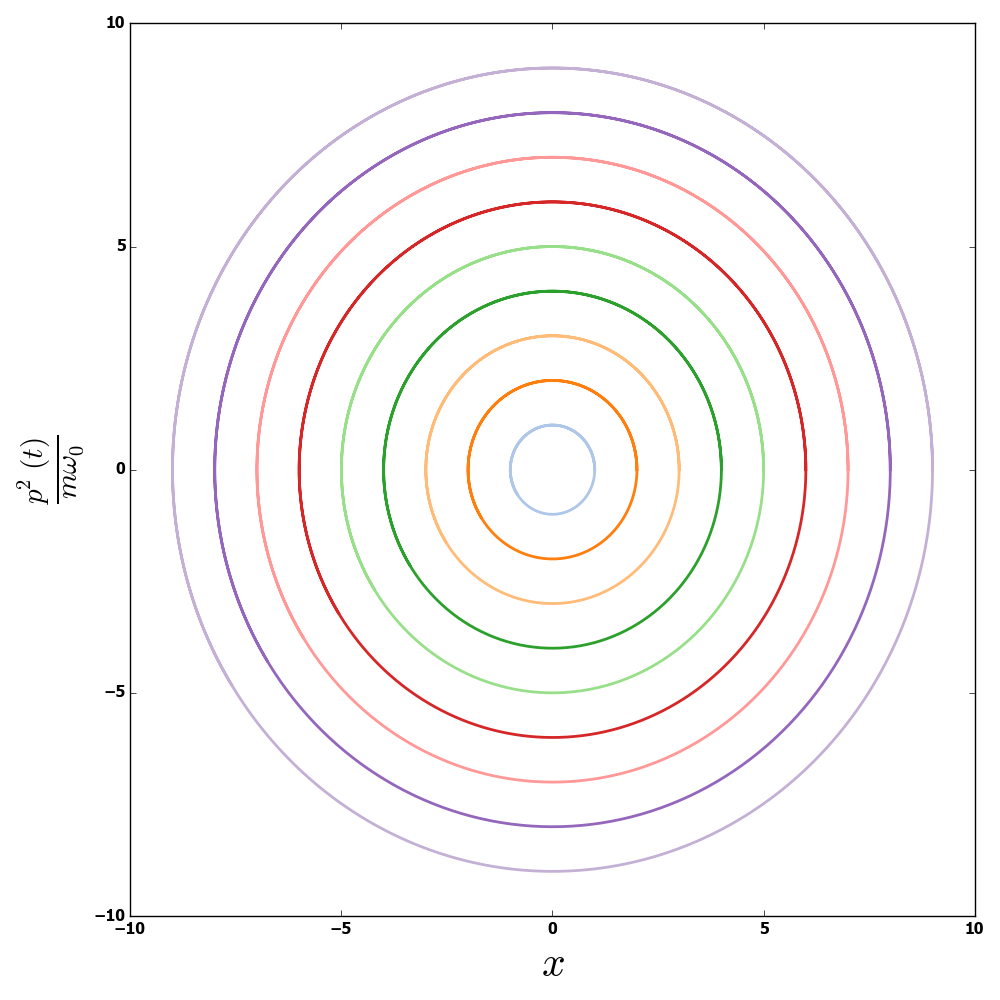
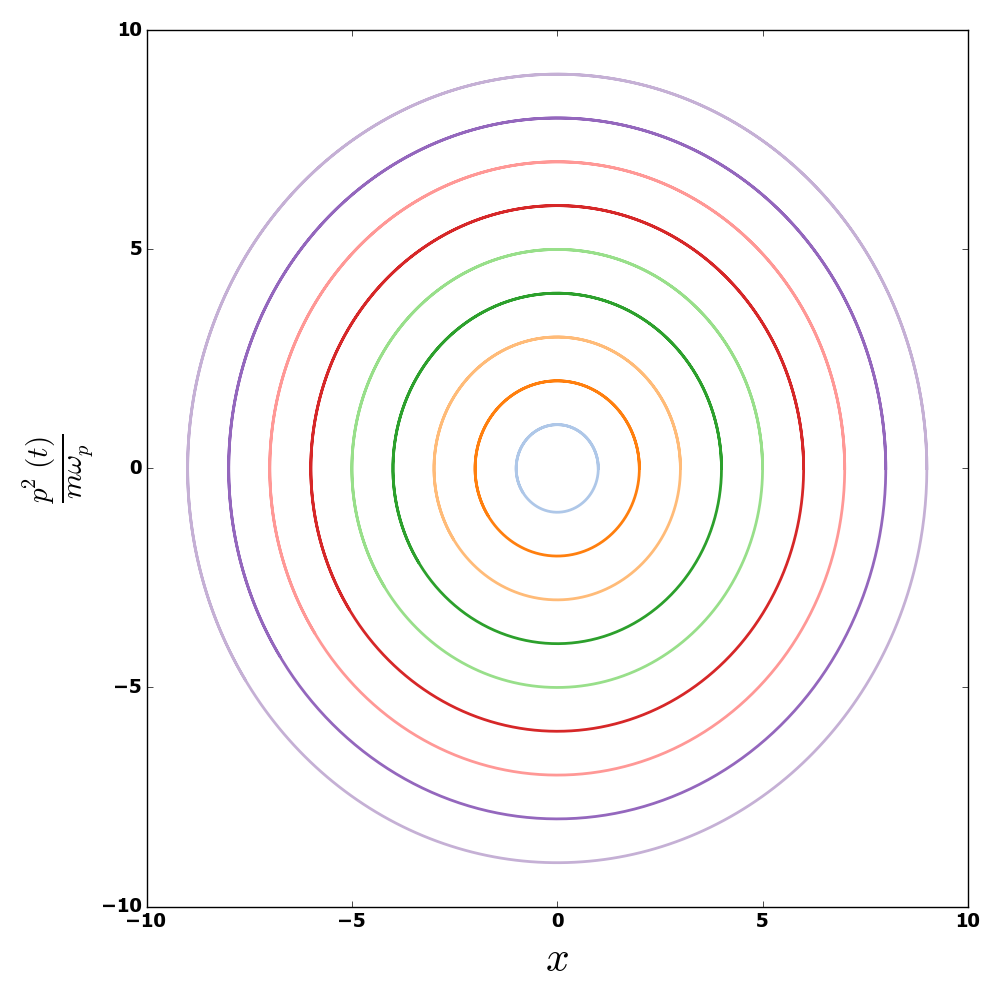
changed w0 to wp

diff --git a/LaserPlasmaAcc/SimpleFigures.py b/LaserPlasmaAcc/SimpleFigures.py
@@ -58,33 +58,33 @@ my_path = "C:\Users\\vernier\PycharmProjects\octo-elective\\"
 #       OSCILLATOR IN PHASE SPACE            #
 ##############################################
 
-# tmin = 0
-# tmax = 10.
-# tnum = 1000
-# tstep = (tmax - tmin)/tnum
-#
-# t_array = np.arange(tmin, tmax, tstep)
-#
-#
-# fig = plt.figure(1, figsize=(10,10), dpi=80, facecolor='w', edgecolor='k')
-#
-# # Plot theta as a function of time
-# ax1 = fig.add_subplot(111)
-# for a0 in np.arange(1, 10, 1):
-#     x = [a0*m.cos(t) for t in t_array]
-#     y = [a0*m.sin(t) for t in t_array]
-#     ax1.plot(x, y, linewidth=2, color=tableau20[a0])
-#
-# ax1.set_xlabel('$x$', fontsize=30)
-# ax1.set_ylabel('$\\frac{p^2(t)}{m\omega_0}$', fontsize=30)
-# plt.tight_layout()
-# plt.savefig(my_path + 'simple_phase_space.png')
+tmin = 0
+tmax = 10.
+tnum = 1000
+tstep = (tmax - tmin)/tnum
+
+t_array = np.arange(tmin, tmax, tstep)
+
+
+fig = plt.figure(1, figsize=(10,10), dpi=80, facecolor='w', edgecolor='k')
+
+# Plot theta as a function of time
+ax1 = fig.add_subplot(111)
+for a0 in np.arange(1, 10, 1):
+    x = [a0*m.cos(t) for t in t_array]
+    y = [a0*m.sin(t) for t in t_array]
+    ax1.plot(x, y, linewidth=2, color=tableau20[a0])
+
+ax1.set_xlabel('$x$', fontsize=30)
+ax1.set_ylabel('$\\frac{p^2(t)}{m\omega_p}$', fontsize=30)
+plt.tight_layout()
+plt.savefig(my_path + 'simple_phase_space.png')
 
 ##############################################
 #    DAMPED OSCILLATOR IN PHASE SPACE, BLANK #
 # ##############################################
-#
-#
+
+
 # tmin = 0
 # tmax = 10.
 # tnum = 1000
@@ -106,7 +106,7 @@ my_path = "C:\Users\\vernier\PycharmProjects\octo-elective\\"
 # ax1.set_xlim(-1, 1)
 # ax1.set_ylim(-1, 1)
 # ax1.set_xlabel('$x$', fontsize=30)
-# ax1.set_ylabel('$\\frac{p^2(t)}{m\omega_0}$', fontsize=30)
+# ax1.set_ylabel('$\\frac{p^2(t)}{m\omega_p}$', fontsize=30)
 # plt.tight_layout()
 # plt.savefig(my_path + 'empty_phase_space.png')
 
@@ -180,50 +180,50 @@ my_path = "C:\Users\\vernier\PycharmProjects\octo-elective\\"
 ##############################################
 #    COULOMB POTENTIAL                       #
 # ############################################
-
-rmax = 12.
-rmin = 0.6
-rnum = 1000
-rstep = rmax/rnum
-
-alpha_1 = 10.
-r_array = np.append(np.arange(-rmax, -rmin, rstep), np.arange(rmin, rmax, rstep))
-
-
-fig = plt.figure(1, figsize=(17, 7), dpi=80, facecolor='w', edgecolor='k')
-
-# Plot theta as a function of time
-ax1 = fig.add_subplot(111)
-
-def coulomb(r, alpha_2):
-    return -alpha_1/m.sqrt(m.pow(r, 2)) - alpha_2*r
-
-a2_arr = [0., 0.5, 0.9, 1.5, 1.8, 2., 2.5]
-for ii in range(0, 4):
-    a2 = a2_arr[ii]
-    c_p = [coulomb(r, a2) for r in r_array]
-    ax1.plot(r_array, c_p, linewidth=4, color=tableau20[ii], label='eE = '+str(a2)+'$\,$(u.a.)')
-
-ax1.set_xlim(-rmax, rmax)
-ax1.set_ylim(-13, 0)
-ax1.set_xlabel('$r\,\mathrm{(u.a.)}$', fontsize=25)
-ax1.set_ylabel('$V(r)\,\mathrm{(u.a.)}$', fontsize=25)
-plt.tick_params(
-    axis='x',          # changes apply to the x-axis
-    which='both',      # both major and minor ticks are affected
-    bottom=False,      # ticks along the bottom edge are off
-    top=False,         # ticks along the top edge are off
-    left=False,
-    labelbottom=False) # labels along the bottom edge are off
-plt.tick_params(
-    axis='y',          # changes apply to the x-axis
-    which='both',      # both major and minor ticks are affected
-    bottom=False,      # ticks along the bottom edge are off
-    top=False,         # ticks along the top edge are off
-    left=False,
-    labelleft=False) # labels along the bottom edge are off
-#ax1.legend(loc='lower left')
-#plt.show()
-#plt.tight_layout()
-plt.savefig(my_path + 'suppression_barriere.png')
-
+#
+# rmax = 12.
+# rmin = 0.6
+# rnum = 1000
+# rstep = rmax/rnum
+#
+# alpha_1 = 10.
+# r_array = np.append(np.arange(-rmax, -rmin, rstep), np.arange(rmin, rmax, rstep))
+#
+#
+# fig = plt.figure(1, figsize=(17, 7), dpi=80, facecolor='w', edgecolor='k')
+#
+# # Plot theta as a function of time
+# ax1 = fig.add_subplot(111)
+#
+# def coulomb(r, alpha_2):
+#     return -alpha_1/m.sqrt(m.pow(r, 2)) - alpha_2*r
+#
+# a2_arr = [0., 0.5, 0.9, 1.5, 1.8, 2., 2.5]
+# for ii in range(0, 4):
+#     a2 = a2_arr[ii]
+#     c_p = [coulomb(r, a2) for r in r_array]
+#     ax1.plot(r_array, c_p, linewidth=4, color=tableau20[ii], label='eE = '+str(a2)+'$\,$(u.a.)')
+#
+# ax1.set_xlim(-rmax, rmax)
+# ax1.set_ylim(-13, 0)
+# ax1.set_xlabel('$r\,\mathrm{(u.a.)}$', fontsize=25)
+# ax1.set_ylabel('$V(r)\,\mathrm{(u.a.)}$', fontsize=25)
+# plt.tick_params(
+#     axis='x',          # changes apply to the x-axis
+#     which='both',      # both major and minor ticks are affected
+#     bottom=False,      # ticks along the bottom edge are off
+#     top=False,         # ticks along the top edge are off
+#     left=False,
+#     labelbottom=False) # labels along the bottom edge are off
+# plt.tick_params(
+#     axis='y',          # changes apply to the x-axis
+#     which='both',      # both major and minor ticks are affected
+#     bottom=False,      # ticks along the bottom edge are off
+#     top=False,         # ticks along the top edge are off
+#     left=False,
+#     labelleft=False) # labels along the bottom edge are off
+# #ax1.legend(loc='lower left')
+# #plt.show()
+# #plt.tight_layout()
+# plt.savefig(my_path + 'suppression_barriere.png')
+#
